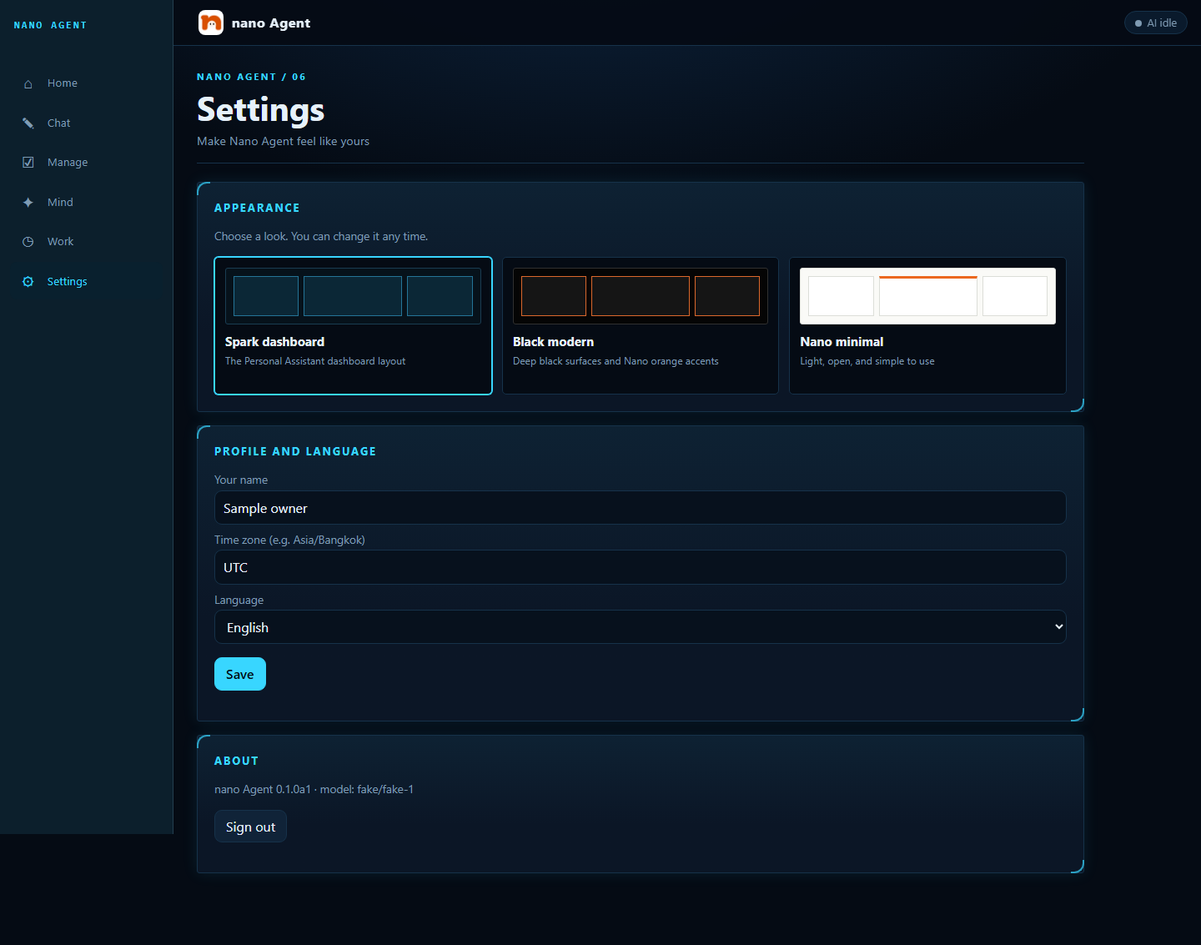
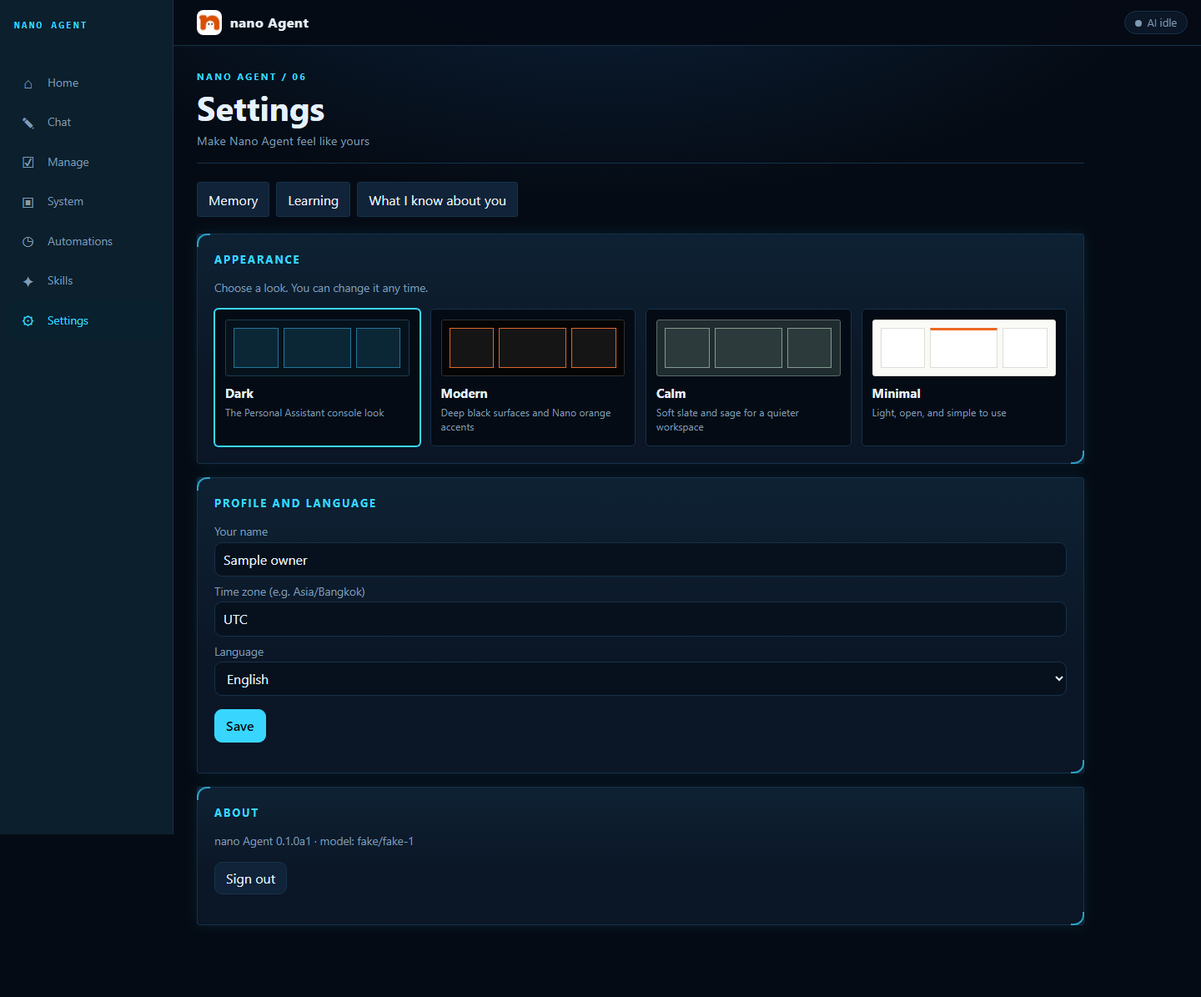
Align full console navigation and add calm theme

diff --git a/src/nanoagent/gateway/static/dashboard.css b/src/nanoagent/gateway/static/dashboard.css
@@ -16,7 +16,7 @@ main:has(.jv-grid){max-width:none;width:auto;padding:24px 28px 48px}
 .jv-core{display:flex;align-items:center;justify-content:center}.jv-orb{display:block;border:0;background:none;padding:0;border-radius:50%;width:100%;max-width:520px}.jv-dial{width:100%;height:auto;display:block}.jv-spin{transform-box:fill-box;transform-origin:center}.jv-orb[data-state=listening] .jv-dial{filter:drop-shadow(0 0 16px #34d39988)}.jv-orb[data-state=thinking] .jv-dial{filter:drop-shadow(0 0 18px #fbbf2488)}.jv-orb[data-state=speaking] .jv-dial{filter:drop-shadow(0 0 18px #60a5fa88)}
 .jv-welcome{text-align:center;align-self:center}.jv-welcome h2{display:block;font-size:30px;font-weight:600;margin:0 0 4px;text-shadow:0 0 22px #38d4ff88}.jv-welcome p{margin:0;color:var(--dim)}.jv-wave{display:flex;align-items:center;justify-content:center;gap:4px;height:56px;margin-top:8px}.jv-wave i{width:4px;border-radius:2px;background:var(--accent);height:var(--h);opacity:.85}.jv-heard,.jv-said{overflow-wrap:anywhere}.jv-heard{color:var(--dim);font-size:.85rem}.jv-said{font-size:.9rem;max-width:38ch;margin:auto}
 .jv-memory-graph{width:100%;height:150px;display:block}.jv-pct{display:flex;justify-content:space-between;align-items:flex-end;margin-top:8px}.jv-pct small{color:var(--dim);text-align:right}.jv-activity-row{display:flex;align-items:center;gap:10px;padding:8px 0;border-top:1px solid #1a3d52}.jv-activity-row span:nth-child(2){flex:1}.jv-activity-row small{color:var(--dim)}
-@media(min-width:1001px){header{margin-left:208px}main{margin-left:208px}nav{width:208px;background:#0c1f2c}nav button{border-left:0;border-radius:8px;padding:10px}nav button.on{background:#09202e;border-left:0}nav:before{top:23px}}
+@media(min-width:1001px){body{padding-bottom:0}header{margin-left:208px;padding-left:28px}main{margin-left:208px}nav{position:fixed;top:0;left:0;right:auto;bottom:0;width:208px;flex-direction:column;align-items:stretch;gap:2px;border-top:0;border-right:1px solid var(--line);padding:76px 12px 16px;background:#0c1f2c}nav:before{content:"NANO AGENT";position:absolute;top:23px;left:17px;color:var(--accent);font:700 .76rem ui-monospace,Consolas,monospace;letter-spacing:.18em}nav button{flex:0;text-align:left;display:flex;align-items:center;gap:12px;border-left:0;border-radius:8px;padding:10px;font-size:.86rem}nav button.on{background:#09202e;border-left:0}nav button span{font-size:1.1rem;width:23px;text-align:center}}
 @media(max-width:1000px){main:has(.jv-grid){padding:16px 16px 96px}.jv-grid{grid-template-columns:1fr 1fr;grid-template-areas:"core core" "wel wel" "bg bg" "chat task" "proj mem" "appr news"}}
 @media(max-width:620px){.jv-grid{grid-template-columns:minmax(0,1fr);grid-template-areas:"core" "wel" "bg" "chat" "task" "proj" "mem" "appr" "news"}.jv-head strong{font-size:17px}.jv-clock{font-size:30px}.jv-orb{max-width:370px}}
 @media(prefers-reduced-motion:no-preference){.jv-spin{animation:jv-spin 60s linear infinite}@keyframes jv-spin{to{transform:rotate(360deg)}}.jv-wave i{animation:jv-wave 1.5s ease-in-out infinite;animation-delay:calc(var(--i)*-.09s)}@keyframes jv-wave{50%{transform:scaleY(.3)}}}
@@ -27,6 +27,7 @@ main:not(:has(.jv-grid)){max-width:1120px;padding:26px 28px 70px}
 .view-heading small{display:block;color:var(--accent);font-size:.7rem;font-weight:700;letter-spacing:.2em}.view-heading h1{font-size:clamp(1.75rem,3vw,2.5rem);line-height:1.1;margin:7px 0}.view-heading p{margin:0;color:var(--dim);font-size:.9rem}
 .panel{border-radius:3px;background:linear-gradient(180deg,color-mix(in srgb,var(--accent) 6%,var(--panel)),var(--panel) 65%);box-shadow:0 0 18px color-mix(in srgb,var(--accent) 10%,transparent);padding:20px;margin-bottom:16px}
 .panel h3{font-size:.82rem;text-transform:uppercase;letter-spacing:.14em;margin-bottom:15px}.chips{margin:0 0 20px}.chip{border-radius:3px}.row{padding:12px 0}.row .grow{overflow-wrap:anywhere}
+.chip{background:var(--panel);color:var(--txt)}.chip.on{background:var(--accent);color:var(--bg)}.row{border-color:var(--line)}.pill{background:var(--panel)}
 button:focus-visible,.btn:focus-visible,input:focus-visible,textarea:focus-visible,select:focus-visible{outline:2px solid var(--accent);outline-offset:2px}
 @media(min-width:1001px){main:not(:has(.jv-grid)){margin-left:208px;margin-right:auto;max-width:1120px}nav{gap:2px}nav button{justify-content:flex-start}}
 
@@ -40,18 +41,29 @@ main:has(.chat-stage){max-width:1110px}
 .chat-composer{border-top:1px solid var(--line);padding:15px 18px 16px;margin-top:auto}.chat-composer textarea{min-height:72px;resize:vertical}.chat-composer-bottom{display:flex;justify-content:space-between;align-items:center;gap:12px;margin-top:9px}.chat-composer-bottom small{color:var(--dim)}
 
 /* Saved appearance choices. */
-.theme-options{display:grid;grid-template-columns:repeat(3,minmax(0,1fr));gap:12px;margin-top:15px}.theme-option{display:flex;flex-direction:column;align-items:stretch;text-align:left;min-height:165px;padding:12px;border:1px solid var(--line);background:var(--bg);border-radius:5px}.theme-option.selected{border-color:var(--accent);box-shadow:0 0 0 1px var(--accent)}.theme-option strong{margin:10px 0 3px;font-size:.94rem}.theme-option small{font-size:.76rem;color:var(--dim)}
-.theme-preview{height:68px;display:grid;grid-template-columns:1fr 1.5fr 1fr;gap:6px;padding:9px;border-radius:3px;background:#06121b;border:1px solid #1a3d52}.theme-preview i{display:block;border:1px solid #247497;background:#0b2736}.theme-option-black .theme-preview{background:#050505;border-color:#303030}.theme-option-black .theme-preview i{border-color:#dc682c;background:#151515}.theme-option-minimal .theme-preview{background:#fafaf7;border-color:#dcded8}.theme-option-minimal .theme-preview i{border-color:#dcded8;background:#fff}.theme-option-minimal .theme-preview i:nth-child(2){border-top:3px solid #eb681f}
+.theme-options{display:grid;grid-template-columns:repeat(4,minmax(0,1fr));gap:12px;margin-top:15px}.theme-option{display:flex;flex-direction:column;align-items:stretch;text-align:left;min-height:165px;padding:12px;border:1px solid var(--line);background:var(--bg);border-radius:5px}.theme-option.selected{border-color:var(--accent);box-shadow:0 0 0 1px var(--accent)}.theme-option strong{margin:10px 0 3px;font-size:.94rem}.theme-option small{font-size:.76rem;color:var(--dim)}
+.theme-preview{height:68px;display:grid;grid-template-columns:1fr 1.5fr 1fr;gap:6px;padding:9px;border-radius:3px;background:#06121b;border:1px solid #1a3d52}.theme-preview i{display:block;border:1px solid #247497;background:#0b2736}.theme-option-modern .theme-preview{background:#050505;border-color:#303030}.theme-option-modern .theme-preview i{border-color:#dc682c;background:#151515}.theme-option-minimal .theme-preview{background:#fafaf7;border-color:#dcded8}.theme-option-minimal .theme-preview i{border-color:#dcded8;background:#fff}.theme-option-minimal .theme-preview i:nth-child(2){border-top:3px solid #eb681f}
+.theme-option-calm .theme-preview{background:#202c30;border-color:#596d69}.theme-option-calm .theme-preview i{border-color:#819b8d;background:#2c3a3c}
+.settings-shortcuts{display:flex;gap:8px;flex-wrap:wrap;margin-bottom:20px}.settings-shortcuts button{border-radius:3px;min-height:42px}
 
 /* Black modern keeps the dashboard geometry with restrained Nano orange. */
-html[data-theme=black]{--bg:#050505;--panel:#101010;--line:#303030;--txt:#f2f0ed;--dim:#a4a3a1;--accent:#ff7a2a;--ok:#70d8aa}
-html[data-theme=black] body{background:radial-gradient(900px 500px at 50% -10%,#21150d,#050505 65%)}
-html[data-theme=black] header,html[data-theme=black] nav{background:#0d0d0d;border-color:var(--line)}
-html[data-theme=black] .jv-panel,html[data-theme=black] .panel{background:linear-gradient(180deg,#ff7a2a0b,#101010 70%);border-color:var(--line);box-shadow:0 0 14px #ff7a2a14}
-html[data-theme=black] .jv-panel h3,html[data-theme=black] .jv-head small,html[data-theme=black] .view-heading small{color:var(--accent)}
-html[data-theme=black] .jv-ring:before{background:#101010}html[data-theme=black] .jv-rowbar,html[data-theme=black] .jv-segments i{background:#303030}html[data-theme=black] .jv-segments i.on{background:var(--ok)}
-html[data-theme=black] nav button.on{background:#23170f;color:var(--accent)}
-html[data-theme=black] input,html[data-theme=black] textarea,html[data-theme=black] select{background:#080808;border-color:var(--line)}
+html[data-theme=modern]{--bg:#050505;--panel:#101010;--line:#303030;--txt:#f2f0ed;--dim:#a4a3a1;--accent:#ff7a2a;--ok:#70d8aa}
+html[data-theme=modern] body{background:radial-gradient(900px 500px at 50% -10%,#21150d,#050505 65%)}
+html[data-theme=modern] header,html[data-theme=modern] nav{background:#0d0d0d;border-color:var(--line)}
+html[data-theme=modern] .jv-panel,html[data-theme=modern] .panel{background:linear-gradient(180deg,#ff7a2a0b,#101010 70%);border-color:var(--line);box-shadow:0 0 14px #ff7a2a14}
+html[data-theme=modern] .jv-panel h3,html[data-theme=modern] .jv-head small,html[data-theme=modern] .view-heading small{color:var(--accent)}
+html[data-theme=modern] .jv-ring:before{background:#101010}html[data-theme=modern] .jv-rowbar,html[data-theme=modern] .jv-segments i{background:#303030}html[data-theme=modern] .jv-segments i.on{background:var(--ok)}
+html[data-theme=modern] nav button.on{background:#23170f;color:var(--accent)}
+html[data-theme=modern] input,html[data-theme=modern] textarea,html[data-theme=modern] select{background:#080808;border-color:var(--line)}
+
+/* Calm keeps the same console structure with low contrast slate and sage. */
+html[data-theme=calm]{--bg:#202c30;--panel:#2a393d;--line:#52666a;--txt:#eef2ed;--dim:#b9c8c3;--accent:#a9d0bd;--ok:#b5d9b9;--warn:#e5c693}
+html[data-theme=calm] body{background:radial-gradient(1100px 660px at 48% -15%,#385154,#202c30 65%)}
+html[data-theme=calm] header,html[data-theme=calm] nav{background:#263438;border-color:var(--line)}
+html[data-theme=calm] .jv-panel,html[data-theme=calm] .panel{background:linear-gradient(180deg,#a9d0bd12,#2a393d 72%);border-color:var(--line);box-shadow:0 6px 22px #121f2122}
+html[data-theme=calm] nav button.on{background:#35494b;color:var(--accent)}
+html[data-theme=calm] input,html[data-theme=calm] textarea,html[data-theme=calm] select{background:#243235;border-color:var(--line)}
+html[data-theme=calm] .jv-rowbar,html[data-theme=calm] .jv-segments i{background:#52666a}html[data-theme=calm] .jv-segments i.on{background:var(--ok)}
 
 /* Nano minimal uses open space and the orange from the logo. */
 html[data-theme=minimal]{--bg:#f8f8f5;--panel:#fff;--line:#deded8;--txt:#232323;--dim:#686a6a;--accent:#e95e16;--ok:#248865}
@@ -75,3 +87,5 @@ html[data-theme=minimal] .jv-memory-graph{height:105px}html[data-theme=minimal] 
 @media(min-width:1100px){html[data-theme=minimal] .jv-grid{grid-template-columns:repeat(3,minmax(0,1fr));grid-template-areas:"core wel wel" "task task appr" "chat proj mem" "news bg bg"}html[data-theme=minimal] .jv-core{justify-content:flex-start}html[data-theme=minimal] .jv-welcome{align-self:center}}
 @media(max-width:620px){html[data-theme=minimal] .jv-welcome{text-align:center}html[data-theme=minimal] .jv-grid{grid-template-columns:1fr;grid-template-areas:"core" "wel" "bg" "chat" "task" "proj" "mem" "appr" "news"}}
 @media(max-width:700px){main:not(:has(.jv-grid)){padding:16px 16px 100px}.theme-options{grid-template-columns:1fr}.theme-option{min-height:0}.chat-messages{height:calc(100dvh - 335px);min-height:260px;padding:15px}.chat-composer-bottom small{font-size:.7rem}.chat-stage{min-height:0}.view-heading{margin-bottom:16px}}
+@media(max-width:1000px){nav button{min-width:0;font-size:.66rem;overflow:hidden;text-overflow:ellipsis;white-space:nowrap}}
+@media(min-width:701px) and (max-width:900px){.theme-options{grid-template-columns:repeat(2,minmax(0,1fr))}}

diff --git a/src/nanoagent/gateway/static/console.js b/src/nanoagent/gateway/static/console.js
@@ -55,11 +55,17 @@ async function liffLogin() {
 }
 
 // ---------- shell ----------
-const HUBS = [["home", "⌂", "tab_home"], ["chat", "✎", "tab_chat"], ["manage", "☑", "tab_manage"], ["mind", "✦", "tab_mind"], ["work", "◷", "tab_work"], ["settings", "⚙", "tab_settings"]];
-function drawTabs() { $("#tabs").replaceChildren(...HUBS.map(([k, ic, lb]) => h("button", { class: tab === k ? "on" : "", onclick: () => go(k) }, h("span", { text: ic }), t(lb)))); }
+const HUBS = [["home", "⌂", "tab_home"], ["chat", "✎", "tab_chat"], ["manage", "☑", "tab_manage"],
+  ["computer", "▣", "sub_system"], ["automation", "◷", "sub_auto"], ["skills", "✦", "sub_skills"], ["settings", "⚙", "tab_settings"]];
+const HUB_OF = { activity: "home", memory: "settings", learning: "settings", know: "settings", mind: "settings", work: "computer" };
+function drawTabs() { $("#tabs").replaceChildren(...HUBS.map(([k, ic, lb]) => h("button", { class: (HUB_OF[tab] || tab) === k ? "on" : "", onclick: () => go(k) },
+  h("span", { text: ic }), k === "automation" && innerWidth < 1001 ? (lang === "th" ? "ออโต้" : "Auto") : t(lb)))); }
 function go(k) { tab = k; drawTabs(); render(); }
-function render() { ({ home: vHome, chat: vChat, manage: vManage, mind: vMind, work: vWork, settings: vSettings })[tab](); }
-function applyUi(p) { const r = document.documentElement; if (p["ui.accent"]) r.dataset.accent = p["ui.accent"]; if (p["ui.theme"]) r.dataset.theme = p["ui.theme"]; if (p["ui.density"]) r.dataset.density = p["ui.density"]; if (p["ui.text_size"]) r.dataset.size = p["ui.text_size"]; }
+function render() { ({ home: vHome, chat: vChat, manage: vManage, computer: vWork, automation: vWork, skills: vMind,
+  settings: vSettings, activity: vWork, memory: vMind, learning: vMind, know: vMind, mind: vMind, work: vWork })[tab](); }
+function applyUi(p) { const r = document.documentElement; if (p["ui.accent"]) r.dataset.accent = p["ui.accent"];
+  if (p["ui.theme"]) r.dataset.theme = ({ spark: "dark", black: "modern" })[p["ui.theme"]] || p["ui.theme"];
+  if (p["ui.density"]) r.dataset.density = p["ui.density"]; if (p["ui.text_size"]) r.dataset.size = p["ui.text_size"]; }
 function viewHeading(title, detail, number) {
   return h("div", { class: "view-heading" }, h("div", null, h("small", { text: `NANO AGENT / ${String(number).padStart(2, "0")}` }), h("h1", { text: title }), h("p", { text: detail })));
 }
@@ -209,7 +215,7 @@ async function refreshHome() {
   $("#home-news-panel").replaceChildren(jvPanel("news", "News", "05", jvEmpty("No news feed connected")));
   $("#home-project-panel").replaceChildren(jvPanel("proj", "Projects", "03", jvEmpty("No projects tracked yet")));
   $("#home-memory-panel").replaceChildren(jvPanel("mem", t("memory_title"), "04", jvMemoryGraph(factCount),
-    h("div", { class: "jv-pct" }, h("span", { class: "jv-big", text: String(factCount) }), h("small", { text: t("memory_counts", { f: st.memory.fact || 0, r: st.memory.rule || 0 }) })), jvGo(t("home_review"), "mind")));
+    h("div", { class: "jv-pct" }, h("span", { class: "jv-big", text: String(factCount) }), h("small", { text: t("memory_counts", { f: st.memory.fact || 0, r: st.memory.rule || 0 }) })), jvGo(t("home_review"), "memory")));
   $("#home-approval-panel").replaceChildren(jvPanel("appr", t("drafts_title", { n: dr.drafts.length }), "06",
     dr.drafts.length ? rows(dr.drafts.slice(0, 3).map(d => [d.channel + " → " + d.target, "Review", 60])) : jvEmpty(t("drafts_none")),
     jvGo(t("home_review"), "manage", "drafts")));
@@ -217,7 +223,7 @@ async function refreshHome() {
   $("#home-activity-panel").replaceChildren(jvPanel("bg", t("work_title"), "07",
     recent.length ? recent.map(a => h("div", { class: "jv-activity-row" }, h("span", { class: "jv-dot " + (a.status === "running" ? "running" : "") }),
       h("span", { text: a.title }), h("small", { text: a.status === "running" ? Math.round(a.secs) + "s" : a.status }))) : jvEmpty(t("work_idle")),
-    jvGo(t("home_review"), "work")));
+    jvGo(t("home_review"), "activity")));
 }
 function draftsPanel(list, after) {
   return panel(t("drafts_title", { n: list.length }), h("p", { class: "dim", text: t("drafts_note") }), ...list.map(d => h("div", { class: "row" },
@@ -273,9 +279,10 @@ async function vManage() {
 
 // ---------- mind: memory, skills, learning ----------
 async function vMind() {
-  const v = clear(); const cur = sub.mind || "memory";
-  v.append(viewHeading(t("tab_mind"), lang === "th" ? "ความจำ ทักษะ และการเรียนรู้" : "Memory, skills, and learning", 4),
-    chips([["memory", t("sub_memory")], ["skills", t("sub_skills")], ["learning", t("sub_learning")], ["know", t("sub_know")]], cur, k => { sub.mind = k; vMind(); }));
+  const v = clear(); const fixed = ["skills", "memory", "learning", "know"].includes(tab) ? tab : null;
+  const cur = fixed || sub.mind || "memory";
+  v.append(viewHeading(t("sub_" + cur), lang === "th" ? "ความจำ ทักษะ และการเรียนรู้" : "Memory, skills, and learning", cur === "skills" ? 6 : 7));
+  if (!fixed) v.append(chips([["memory", t("sub_memory")], ["skills", t("sub_skills")], ["learning", t("sub_learning")], ["know", t("sub_know")]], cur, k => { sub.mind = k; vMind(); }));
   ({ memory: mMemory, skills: mSkills, learning: mLearning, know: mKnow })[cur](v);
 }
 async function mMemory(v) {
@@ -331,9 +338,10 @@ async function mKnow(v) {
 
 // ---------- work: activity, automations, system ----------
 async function vWork() {
-  const v = clear(); const cur = sub.work || "activity";
-  v.append(viewHeading(t("tab_work"), lang === "th" ? "กิจกรรม ระบบอัตโนมัติ และสถานะ" : "Activity, automations, and system status", 5),
-    chips([["activity", t("sub_activity")], ["auto", t("sub_auto")], ["system", t("sub_system")]], cur, k => { sub.work = k; vWork(); }));
+  const v = clear(); const fixed = ({ computer: "system", automation: "auto", activity: "activity" })[tab];
+  const cur = fixed || sub.work || "activity";
+  v.append(viewHeading(t("sub_" + cur), lang === "th" ? "กิจกรรม ระบบอัตโนมัติ และสถานะ" : "Activity, automations, and system status", 5));
+  if (!fixed) v.append(chips([["activity", t("sub_activity")], ["auto", t("sub_auto")], ["system", t("sub_system")]], cur, k => { sub.work = k; vWork(); }));
   if (cur === "activity") { const a = await api("/activity"); const row = x => h("div", { class: "row" }, h("span", { class: "tag " + (x.status === "done" ? "ok" : x.status === "failed" ? "bad" : "warn"), text: x.status }), h("span", { class: "grow" }, h("b", { text: x.title }), x.steps.length ? h("div", { class: "dim", text: x.steps.slice(-3).map(s => s.text).join(" · ") }) : null), h("span", { class: "dim", text: Math.round(x.secs) + "s" }));
     v.append(panel(t("running_title"), a.running.length ? a.running.map(row) : h("p", { class: "dim", text: t("work_idle") })), panel(t("recent_title"), a.done.map(row))); }
   if (cur === "auto") { const a = await api("/automations"); const nm = h("input", { placeholder: t("auto_name") }), pr = h("textarea", { placeholder: t("auto_prompt") }), sc = h("input", { placeholder: '{"daily": "08:00"}' });
@@ -354,11 +362,16 @@ async function vSettings() {
   const v = clear(); const name = h("input", { value: ME.owner_name || "" }), tz = h("input", { value: ME.timezone || "" });
   const lg = h("select", null, ["en", "th"].map(l => h("option", { value: l, selected: l === lang ? "" : null, text: l === "en" ? "English" : "ไทย" })));
   const themes = [
-    ["spark", "Spark dashboard", lang === "th" ? "จอข้อมูลแบบ Personal Assistant" : "The Personal Assistant dashboard layout"],
-    ["black", "Black modern", lang === "th" ? "พื้นดำ ขอบคม สีส้ม Nano" : "Deep black surfaces and Nano orange accents"],
-    ["minimal", "Nano minimal", lang === "th" ? "เรียบ โปร่ง ใช้งานง่าย" : "Light, open, and simple to use"]
+    ["dark", "Dark", lang === "th" ? "จอเข้มแบบ Personal Assistant" : "The Personal Assistant console look"],
+    ["modern", "Modern", lang === "th" ? "พื้นดำ ขอบคม สีส้ม Nano" : "Deep black surfaces and Nano orange accents"],
+    ["calm", "Calm", lang === "th" ? "โทนสีนุ่ม อ่านสบาย" : "Soft slate and sage for a quieter workspace"],
+    ["minimal", "Minimal", lang === "th" ? "เรียบ โปร่ง ใช้งานง่าย" : "Light, open, and simple to use"]
   ];
   v.append(viewHeading(t("tab_settings"), lang === "th" ? "ปรับหน้าตาและข้อมูลของคุณ" : "Make Nano Agent feel like yours", 6),
+    h("div", { class: "settings-shortcuts" },
+      h("button", { onclick: () => go("memory"), text: t("sub_memory") }),
+      h("button", { onclick: () => go("learning"), text: t("sub_learning") }),
+      h("button", { onclick: () => go("know"), text: t("sub_know") })),
     panel(lang === "th" ? "รูปแบบหน้าจอ" : "Appearance",
       h("p", { class: "dim", text: lang === "th" ? "เลือกหน้าตาที่ต้องการ เปลี่ยนได้ตลอด" : "Choose a look. You can change it any time." }),
       h("div", { class: "theme-options" }, themes.map(([key, title, detail]) => h("button", {

diff --git a/src/nanoagent/gateway/console.py b/src/nanoagent/gateway/console.py
@@ -19,25 +19,6 @@ header img{width:30px;height:30px;border-radius:8px}header b{letter-spacing:.04e
 .pill.busy{color:var(--accent);border-color:var(--accent)}.pill i{display:inline-block;width:8px;height:8px;border-radius:50%;background:var(--dim);margin-right:6px}
 .pill.busy i{background:var(--warn);animation:pulse 1.2s infinite}@keyframes pulse{50%{opacity:.3}}
 main{max-width:860px;margin:0 auto;padding:var(--gap)}
-main:has(.home-grid){max-width:1370px;padding:24px clamp(16px,3vw,42px)}
-.home-intro{display:flex;align-items:end;justify-content:space-between;gap:20px;padding:22px 4px 20px;border-bottom:1px solid var(--line)}
-.home-kicker{color:var(--accent);font-size:.72rem;font-weight:800;letter-spacing:.2em;text-transform:uppercase}
-.home-intro h1{font-size:clamp(1.8rem,4vw,3.25rem);line-height:1.05;letter-spacing:-.045em;margin:9px 0 10px}
-.home-intro p{color:var(--dim);margin:0}.home-chat-button{background:var(--accent);color:#001018;font-weight:800;border:0;padding:11px 20px;white-space:nowrap}
-.home-metrics{display:grid;grid-template-columns:repeat(4,minmax(0,1fr));gap:10px;margin:18px 0}
-.home-metric{background:#0a1828;border:1px solid var(--line);border-radius:12px;padding:12px 16px;display:flex;align-items:baseline;gap:12px}
-.home-metric strong{font-size:1.7rem;line-height:1;color:var(--txt);font-variant-numeric:tabular-nums}.home-metric span{color:var(--dim);font-size:.82rem}
-.home-grid{display:grid;grid-template-columns:minmax(0,1fr) minmax(300px,1.2fr) minmax(0,1fr);gap:14px;align-items:stretch}
-.home-stack{display:grid;align-content:start;gap:14px}.home-card,.home-focus{background:linear-gradient(155deg,#10243a,#091521 75%);border:1px solid var(--line);border-radius:16px;padding:20px}
-.home-card{min-height:165px}.home-card h2{font-size:.85rem;text-transform:uppercase;letter-spacing:.08em;color:var(--accent);margin:0 0 14px}
-.home-card p{margin:8px 0}.home-card-number{font-size:2.5rem;font-weight:800;line-height:1}.home-list-row{display:flex;justify-content:space-between;gap:12px;padding:9px 0;border-top:1px solid var(--line);font-size:.86rem}
-.home-list-row span{overflow-wrap:anywhere}.home-list-row small{color:var(--dim);white-space:nowrap}.home-link{border:0;background:none;padding:8px 0 0;color:var(--accent);font-size:.8rem;font-weight:700}
-.home-focus{text-align:center;min-height:480px;display:flex;flex-direction:column;align-items:center;justify-content:center;position:relative;overflow:hidden;background:radial-gradient(circle at 50% 44%,#143d53 0,#0c2133 36%,#091521 76%)}
-.home-focus:before,.home-focus:after{content:"";position:absolute;border:1px solid #2b526b;border-radius:50%;width:310px;height:310px;top:50%;left:50%;transform:translate(-50%,-45%);opacity:.32;pointer-events:none}
-.home-focus:after{width:370px;height:370px;opacity:.15}.home-focus>*{position:relative;z-index:1}.home-clock{font-size:clamp(2.2rem,4vw,3.7rem);font-weight:300;font-variant-numeric:tabular-nums;letter-spacing:-.06em;margin:8px 0 4px}
-.home-focus .orb{margin:20px auto 22px}.home-heard{color:var(--dim);font-size:.85rem}.home-said{font-size:.9rem;max-width:32ch}.home-focus p{max-width:34ch;margin:12px auto 0}
-@media(max-width:1000px){.home-grid{grid-template-columns:repeat(2,minmax(0,1fr))}.home-focus{grid-column:1/-1;grid-row:1;min-height:390px}.home-stack{grid-row:2}}
-@media(max-width:620px){main:has(.home-grid){padding:14px}.home-intro{align-items:start;flex-direction:column;padding:14px 4px}.home-metrics{grid-template-columns:repeat(2,minmax(0,1fr))}.home-grid{display:flex;flex-direction:column}.home-focus{order:-1;min-height:310px}.home-focus .orb{width:145px;height:145px;margin:10px auto}.home-focus:before{width:250px;height:250px}.home-focus:after{width:290px;height:290px}.home-stack{display:contents}.home-card{min-height:0}.home-metric{display:block}.home-metric span{display:block;margin-top:6px}}
 .chips{display:flex;gap:8px;flex-wrap:wrap;margin-bottom:var(--gap)}
 .chip{border:1px solid var(--line);background:#0a1a2c;color:var(--txt);border-radius:10px;padding:7px 13px;cursor:pointer;font:inherit}
 .chip.on{background:var(--accent);color:#001018;border-color:var(--accent);font-weight:600}
@@ -66,39 +47,11 @@ pre{background:#050d17;border:1px solid var(--line);border-radius:9px;padding:10
 .tag{font-size:.72rem;border:1px solid var(--line);border-radius:6px;padding:1px 7px;color:var(--dim)}.tag.ok{color:var(--ok);border-color:var(--ok)}.tag.bad{color:var(--bad);border-color:var(--bad)}.tag.warn{color:var(--warn);border-color:var(--warn)}
 .bar{height:8px;border-radius:6px;background:#12283d;overflow:hidden}.bar>i{display:block;height:100%;background:var(--accent)}
 .toast{position:fixed;left:50%;transform:translateX(-50%);bottom:96px;background:#0e2236;border:1px solid var(--accent);padding:9px 16px;border-radius:10px;z-index:9;max-width:90vw}
-/* Home HUD: compact numbered panels around the companion dial. */
-main:has(.home-grid){max-width:1550px;padding:22px clamp(18px,2.6vw,38px)}
-.home-intro{padding:10px 0 16px;border:0;align-items:center}.home-intro h1{font-size:clamp(1.45rem,2.4vw,2.15rem);letter-spacing:-.035em;margin:4px 0}.home-intro p{font-size:.88rem}
-.home-metrics{margin:4px 0 16px;gap:1px;background:var(--line);border:1px solid var(--line)}
-.home-metric{border:0;border-radius:0;background:#091827;padding:11px 18px}.home-metric strong{font-size:1.45rem;color:var(--accent)}
-.home-grid{grid-template-columns:minmax(220px,1fr) minmax(390px,1.65fr) minmax(220px,1fr);gap:12px}
-.home-stack{gap:12px}.home-card,.home-focus{position:relative;background:#081725;border:1px solid #1c3b4d;border-radius:0;padding:17px 19px}
-.home-card:before,.home-card:after,.home-focus:before,.home-focus:after{content:"";position:absolute;width:13px;height:13px;border:0;border-radius:0;background:none;opacity:1;pointer-events:none}
-.home-card:before,.home-focus:before{left:-1px;top:-1px;border-left:2px solid var(--accent);border-top:2px solid var(--accent)}
-.home-card:after,.home-focus:after{right:-1px;bottom:-1px;border-right:2px solid var(--accent);border-bottom:2px solid var(--accent)}
-.home-card{min-height:222px}.home-card-head{display:flex;align-items:center;gap:10px;border-bottom:1px solid #24404f;padding-bottom:10px;margin-bottom:12px}
-.home-card-index{color:var(--accent);font:700 .7rem ui-monospace,Consolas,monospace;letter-spacing:.1em}.home-card-head h2{margin:0;flex:1;color:var(--txt);font-size:.75rem;letter-spacing:.16em}.home-card-cross{color:#557c8b}
-.home-card p{font-size:.8rem}.home-card .home-link{margin-top:7px;text-transform:uppercase;letter-spacing:.1em}
-.home-task-summary{display:flex;align-items:center;gap:17px;margin:4px 0 14px}.home-task-summary>div:last-child{display:grid}.home-task-summary>div:last-child strong{font-size:1.9rem;line-height:1}.home-task-summary small{color:var(--dim);font-size:.7rem;text-transform:uppercase;letter-spacing:.12em}
-.home-task-ring{width:77px;height:77px;flex:none;border-radius:50%;background:conic-gradient(var(--accent) var(--done),#1d3b4b 0);display:grid;place-items:center;position:relative}.home-task-ring:after{content:"";position:absolute;inset:8px;border-radius:50%;background:#081725}.home-task-ring strong{z-index:1;font-size:.85rem}
-.home-memory-map{height:105px;position:relative;background:radial-gradient(circle,#143646 0,#081725 63%);overflow:hidden}.home-memory-center{position:absolute;top:50%;left:50%;transform:translate(-50%,-50%);border:1px solid var(--accent);background:#0a2834;border-radius:50%;width:55px;height:55px;display:grid;place-items:center;font-size:1.25rem;font-weight:700;color:var(--accent);box-shadow:0 0 22px #38d6ff44}.home-memory-node{position:absolute;width:7px;height:7px;border-radius:50%;background:var(--accent);top:calc(50% + 36px * sin(360deg * var(--node) / var(--nodes)));left:calc(50% + 90px * cos(360deg * var(--node) / var(--nodes)));box-shadow:0 0 12px var(--accent)}
-.home-focus{min-height:470px;display:flex;flex-direction:column;justify-content:flex-start;text-align:center;overflow:hidden;background:radial-gradient(circle at 50% 52%,#0d3543 0,#091e2c 41%,#081725 76%)}
-.home-focus-top{width:100%;display:flex;justify-content:space-between;text-align:left}.home-live{font:.7rem ui-monospace,Consolas,monospace;color:var(--ok);letter-spacing:.12em}
-.home-dial{width:min(100%,380px);aspect-ratio:1;margin:8px auto 0;position:relative;display:grid;place-items:center;border-radius:50%;background:radial-gradient(circle,transparent 76%,#254a58 76.5%,transparent 77%,transparent 90%,#254a58 90.5%,transparent 91%)}
-.home-dial:before{content:"";position:absolute;inset:20px;border-radius:50%;border:1px solid #2b6474;box-shadow:0 0 30px #38d6ff22,inset 0 0 35px #38d6ff14}.home-dial:after{content:"";position:absolute;inset:35px;border-radius:50%;border:2px solid transparent;border-top-color:var(--accent);border-right-color:#3ab6c8;transform:rotate(-35deg);opacity:.8}
-.home-dial-ticks{position:absolute;inset:0}.home-dial-ticks i{position:absolute;left:50%;top:50%;height:7px;width:1px;background:#6fa1aa;transform:rotate(calc(var(--tick)*7.5deg)) translateY(-174px)}
-.home-dial-core{position:relative;z-index:1;display:flex;flex-direction:column;align-items:center}.home-clock{font:300 2rem ui-monospace,Consolas,monospace;letter-spacing:.08em;color:#cce6ea;margin:0 0 8px}
-.home-focus .orb{width:135px;height:135px;margin:0;border:1px solid #65d8e5;background:radial-gradient(circle at 50% 35%,#164958,#082634 72%);box-shadow:0 0 0 8px #36c7dc16,0 0 44px #38d6ff55;color:var(--txt)}.home-focus .orb img{width:88px;height:88px;object-fit:contain;filter:drop-shadow(0 0 8px #ff934a66)}
-.home-dial-action{font-size:.72rem;text-transform:uppercase;letter-spacing:.14em;color:var(--accent);margin-top:12px}.home-welcome{font-size:1.05rem;font-weight:700;letter-spacing:.02em;margin-top:-6px}.home-focus p{margin:6px auto 0;font-size:.78rem}
-.home-activity{grid-column:1/-1}.home-activity .home-card{min-height:0}.home-activity-strip{display:flex;gap:18px;min-height:35px}.home-activity-item{display:flex;align-items:center;gap:9px;min-width:0;color:var(--txt);font-size:.83rem}.home-activity-item small{color:var(--dim)}.home-activity-dot{width:7px;height:7px;flex:none;border-radius:50%;background:var(--ok);box-shadow:0 0 10px var(--ok)}.home-activity-dot.idle{background:#557887;box-shadow:none}
-@media(min-width:1001px){body{padding-bottom:0}header{margin-left:174px;padding-left:30px}main{margin-left:174px}nav{top:0;right:auto;bottom:0;width:174px;flex-direction:column;align-items:stretch;border-top:0;border-right:1px solid #24404f;padding:76px 12px 16px;background:#071421}nav:before{content:"NANO AGENT";position:absolute;top:20px;left:17px;color:var(--accent);font:700 .76rem ui-monospace,Consolas,monospace;letter-spacing:.18em}nav button{flex:0;text-align:left;padding:12px 9px;display:flex;align-items:center;gap:12px;border-left:2px solid transparent;font-size:.84rem}nav button.on{background:#102a38;border-left-color:var(--accent)}nav button span{font-size:1.1rem;width:23px;text-align:center}}
-@media(max-width:1000px){.home-grid{grid-template-columns:repeat(2,minmax(0,1fr))}.home-focus{grid-column:1/-1;grid-row:1}.home-activity{grid-column:1/-1}}
-@media(max-width:620px){main:has(.home-grid){padding:12px}.home-intro{padding:8px 0 13px}.home-metrics{grid-template-columns:repeat(2,minmax(0,1fr))}.home-grid{display:flex;flex-direction:column}.home-focus{order:-1;min-height:0;padding:15px}.home-dial{width:300px;max-width:100%}.home-dial-ticks i{display:none}.home-focus .orb{width:110px;height:110px}.home-focus .orb img{width:72px;height:72px}.home-stack{display:contents}.home-activity{order:10}.home-card{min-height:0}.home-activity-strip{display:block}}
 """
 
 
 def page() -> str:
-    return f"""<!doctype html><html lang="en" data-theme="spark" data-accent="cyan" data-density="normal" data-size="m"><head><meta charset="utf-8">
+    return f"""<!doctype html><html lang="en" data-theme="dark" data-accent="cyan" data-density="normal" data-size="m"><head><meta charset="utf-8">
 <meta name="viewport" content="width=device-width,initial-scale=1,viewport-fit=cover"><meta name="robots" content="noindex">
 <title>nano Agent</title><link rel="icon" href="/static/favicon.png"><style>{CSS}</style><link rel="stylesheet" href="/static/dashboard.css?v={__version__}"></head><body>
 <header><img src="/static/logo-icon.png" alt=""><b>nano Agent</b><span class="sp"></span><span id="pill" class="pill"><i></i><span id="pilltxt"></span></span></header>

diff --git a/scripts/preview_console.py b/scripts/preview_console.py
@@ -72,7 +72,7 @@ def main() -> int:
             opener = urllib.request.build_opener(urllib.request.HTTPCookieProcessor())
             opener.open(req).read()
             # Use browser hash login only in the temporary local preview.
-            url = base + "/console#token=" + token + "&tab=mind&sub=skills"
+            url = base + "/console#token=" + token + "&tab=skills"
             if args.screenshots:
                 try:
                     from playwright.sync_api import sync_playwright
@@ -98,21 +98,52 @@ def main() -> int:
                     page.locator(".chat-composer button").click()
                     page.locator(".chat-messages .msg.assistant").last.wait_for(timeout=15000)
                     page.screenshot(path=str(args.out / "console-chat-active.png"), full_page=True)
-                    page.locator("nav button").nth(5).click()
+                    page.locator("nav button").nth(6).click()
                     page.locator(".theme-options").wait_for(timeout=10000)
                     page.screenshot(path=str(args.out / "console-settings.png"), full_page=True)
-                    page.locator(".theme-option-black").click()
-                    page.locator("html[data-theme='black']").wait_for(timeout=10000)
+                    for index, name in ((2, "manage"), (3, "system"), (4, "automations"), (5, "skills")):
+                        page.locator("nav button").nth(index).click()
+                        page.locator(".view-heading").wait_for(timeout=10000)
+                        page.locator(".panel").first.wait_for(timeout=10000)
+                        if name != "system":  # live host and hardware details are not sample data
+                            page.screenshot(path=str(args.out / f"console-{name}.png"), full_page=True)
+                    page.locator("nav button").nth(6).click()
+                    page.locator(".settings-shortcuts button").first.click()
+                    page.locator(".view-heading").wait_for(timeout=10000)
+                    page.screenshot(path=str(args.out / "console-memory.png"), full_page=True)
+                    page.locator("nav button").nth(6).click()
+                    page.locator(".theme-option-modern").click()
+                    page.locator("html[data-theme='modern']").wait_for(timeout=10000)
                     page.reload(wait_until="domcontentloaded")
-                    page.locator("html[data-theme='black']").wait_for(timeout=10000)
+                    page.locator("html[data-theme='modern']").wait_for(timeout=10000)
                     page.locator(".jv-panel").first.wait_for(timeout=10000)
-                    page.screenshot(path=str(args.out / "console-black.png"), full_page=True)
-                    page.locator("nav button").nth(5).click()
+                    page.screenshot(path=str(args.out / "console-modern.png"), full_page=True)
+                    page.locator("nav button").nth(6).click()
+                    page.locator(".theme-option-calm").click()
+                    page.locator("html[data-theme='calm']").wait_for(timeout=10000)
+                    page.locator("nav button").first.click()
+                    page.locator(".jv-panel").first.wait_for(timeout=10000)
+                    page.screenshot(path=str(args.out / "console-calm.png"), full_page=True)
+                    page.locator("nav button").nth(6).click()
                     page.locator(".theme-option-minimal").click()
                     page.locator("html[data-theme='minimal']").wait_for(timeout=10000)
                     page.locator("nav button").first.click()
                     page.locator(".jv-panel").first.wait_for(timeout=10000)
                     page.screenshot(path=str(args.out / "console-minimal.png"), full_page=True)
+                    for theme in ("dark", "modern", "calm", "minimal"):
+                        page.locator("nav button").nth(6).click()
+                        page.locator(f".theme-option-{theme}").click()
+                        page.locator(f"html[data-theme='{theme}']").wait_for(timeout=10000)
+                        for width in (390, 1440):
+                            page.set_viewport_size({"width": width, "height": 900})
+                            for index in range(7):
+                                page.locator("nav button").nth(index).click()
+                                page.locator(".view-heading, .jv-head").first.wait_for(timeout=10000)
+                                if index not in (0, 1):
+                                    page.locator(".panel").first.wait_for(timeout=10000)
+                                actual = page.locator("html").evaluate("element => element.scrollWidth")
+                                if actual > width + 1:
+                                    raise AssertionError(f"horizontal overflow: {theme}, tab {index}, width {width}: {actual}")
                     browser.close()
             if args.open:
                 webbrowser.open(url)

diff --git a/src/nanoagent/learning.py b/src/nanoagent/learning.py
@@ -34,7 +34,7 @@ SCHEMA: dict[str, tuple[str, object]] = {
     "brief.time": ("time", None),
     "brief.days": ("days", None),
     "ui.accent": ("enum", ACCENTS),
-    "ui.theme": ("enum", ("spark", "black", "minimal")),
+    "ui.theme": ("enum", ("dark", "modern", "calm", "minimal", "spark", "black")),
     "ui.density": ("enum", ("compact", "normal", "roomy")),
     "ui.text_size": ("enum", ("s", "m", "l", "xl")),
     "ui.labels": ("enum", ("short", "friendly")),
@@ -42,7 +42,7 @@ SCHEMA: dict[str, tuple[str, object]] = {
 }
 DEFAULTS = {"chat.length": "normal", "chat.tone": "friendly", "chat.language": "auto", "chat.emoji": "none",
             "brief.sections": ["tasks", "reminders", "drafts"], "brief.length": "short", "brief.time": "07:30",
-            "brief.days": list(WEEKDAYS), "ui.accent": "cyan", "ui.theme": "spark", "ui.density": "normal", "ui.text_size": "m",
+            "brief.days": list(WEEKDAYS), "ui.accent": "cyan", "ui.theme": "dark", "ui.density": "normal", "ui.text_size": "m",
             "ui.labels": "friendly", "ui.panels": list(PANELS)}
 AI_FORBIDDEN_SCOPES = ("ui",)   # the weekly review never restyles the console
 

diff --git a/tests/test_gateway.py b/tests/test_gateway.py
@@ -181,6 +181,8 @@ def test_skills_learning_automation_and_settings_routes(owner):
     assert owner.post("/api/learning/pref", json={"setting": "ui.accent", "value": "evil"}).json()["ok"] is False
     assert owner.post("/api/learning/pref", json={"setting": "ui.theme", "value": "minimal"}).json()["ok"]
     assert owner.get("/api/me").json()["prefs"]["ui.theme"] == "minimal"
+    assert owner.post("/api/learning/pref", json={"setting": "ui.theme", "value": "calm"}).json()["ok"]
+    assert owner.get("/api/me").json()["prefs"]["ui.theme"] == "calm"
     assert owner.post("/api/learning/pref", json={"setting": "ui.theme", "value": "unknown"}).json()["ok"] is False
     assert owner.post("/api/automations", json={"name": "n", "prompt": "p", "schedule": {"daily": "08:00"}}).json()["ok"]
     assert owner.post("/api/settings", json={"language": "th", "owner_name": "Sam", "timezone": "Asia/Bangkok"}).json()["ok"]
